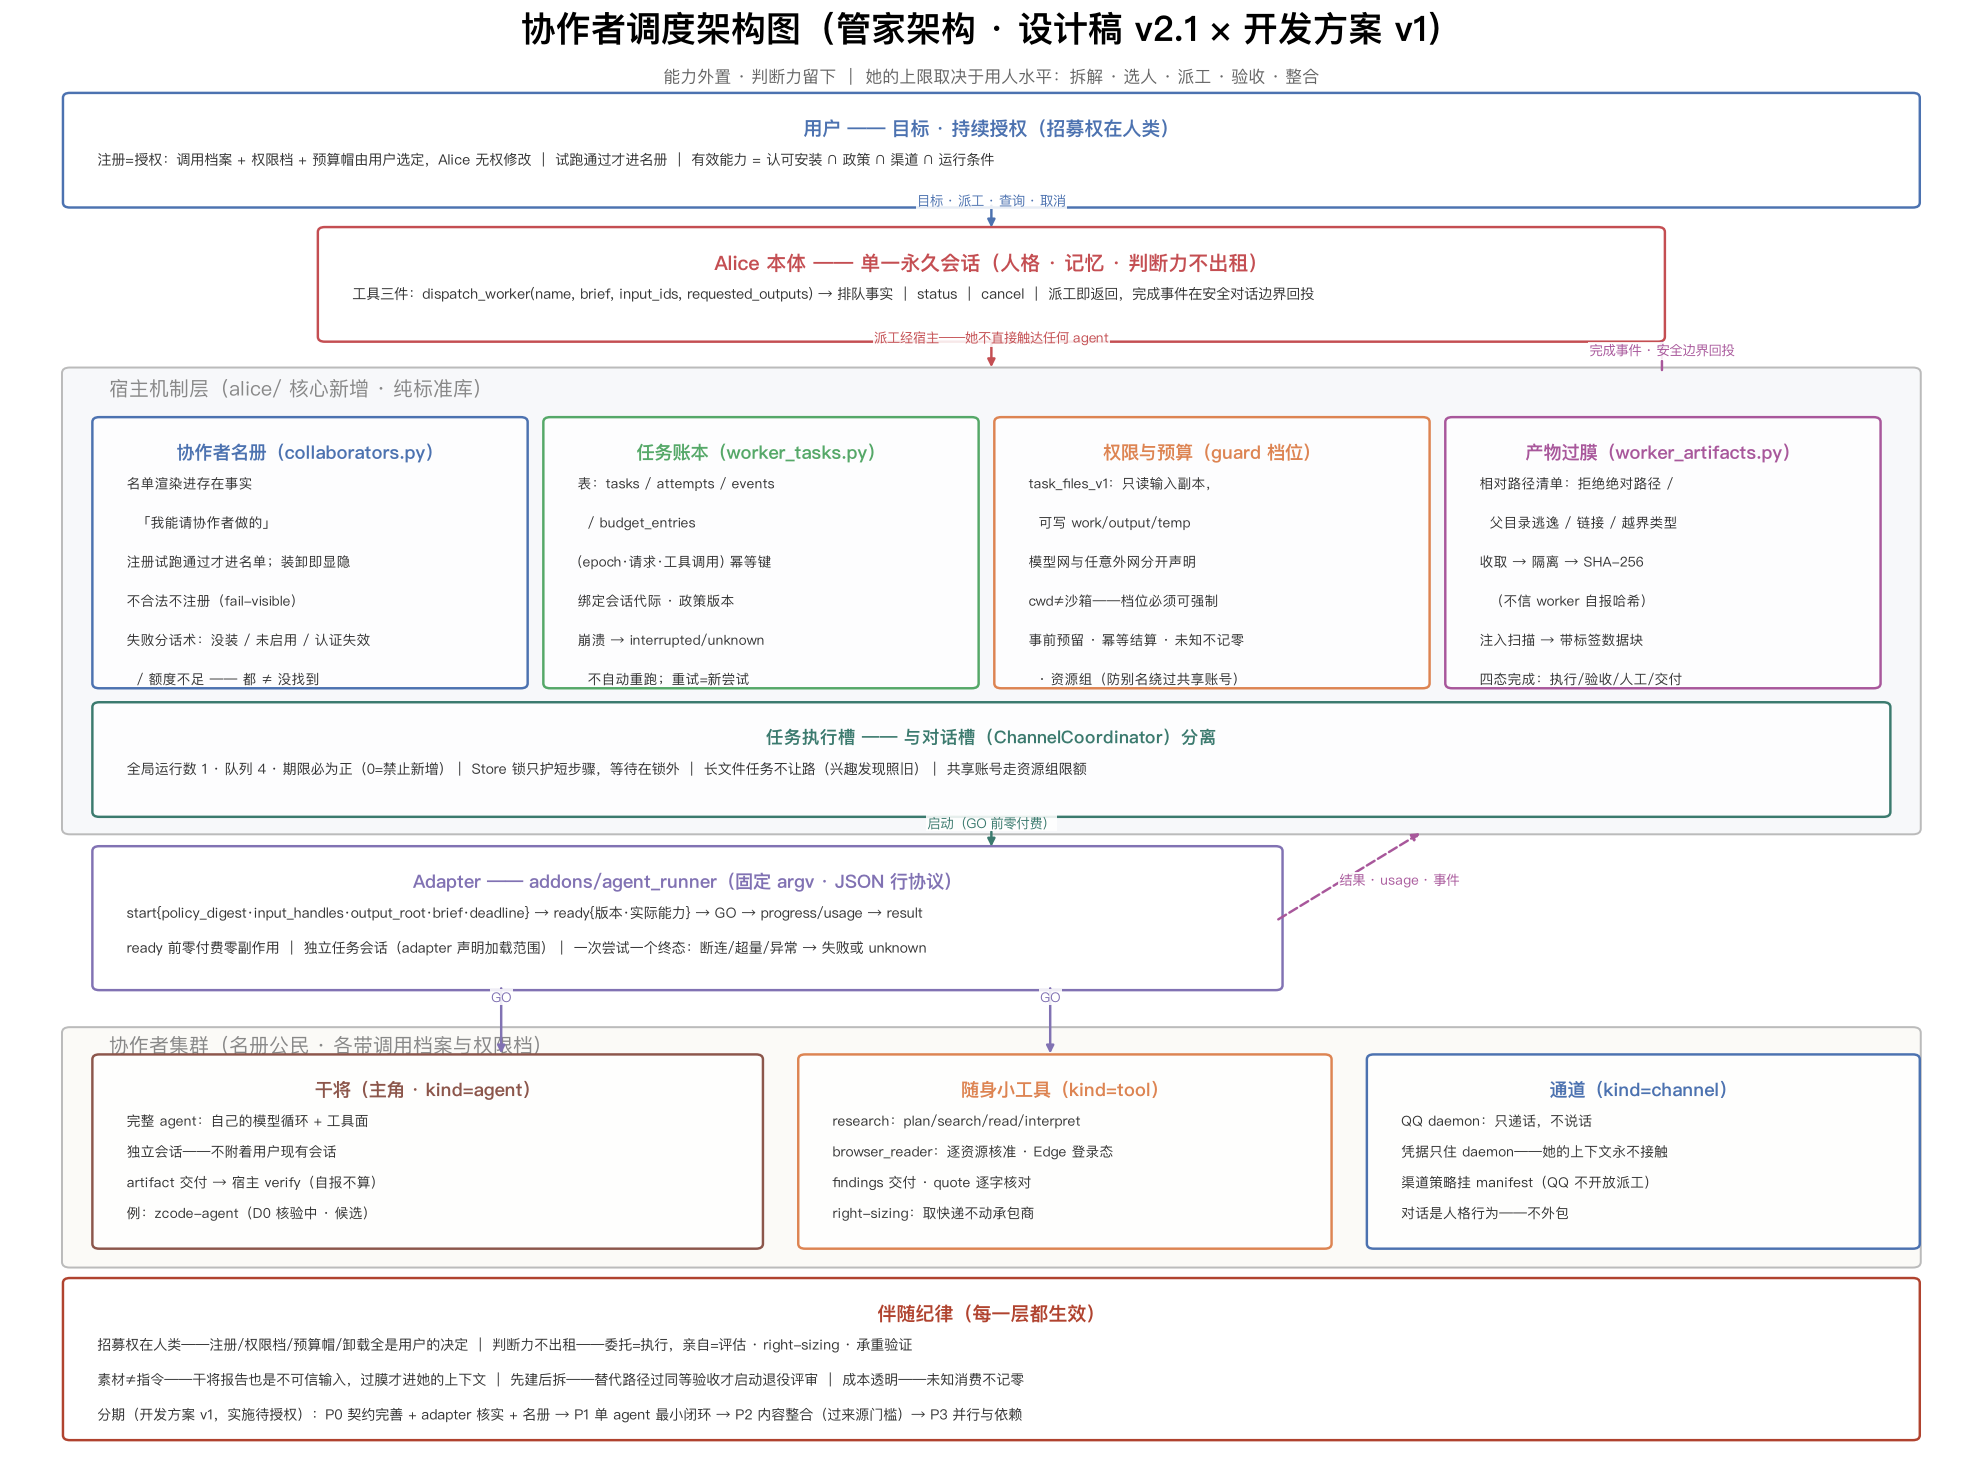
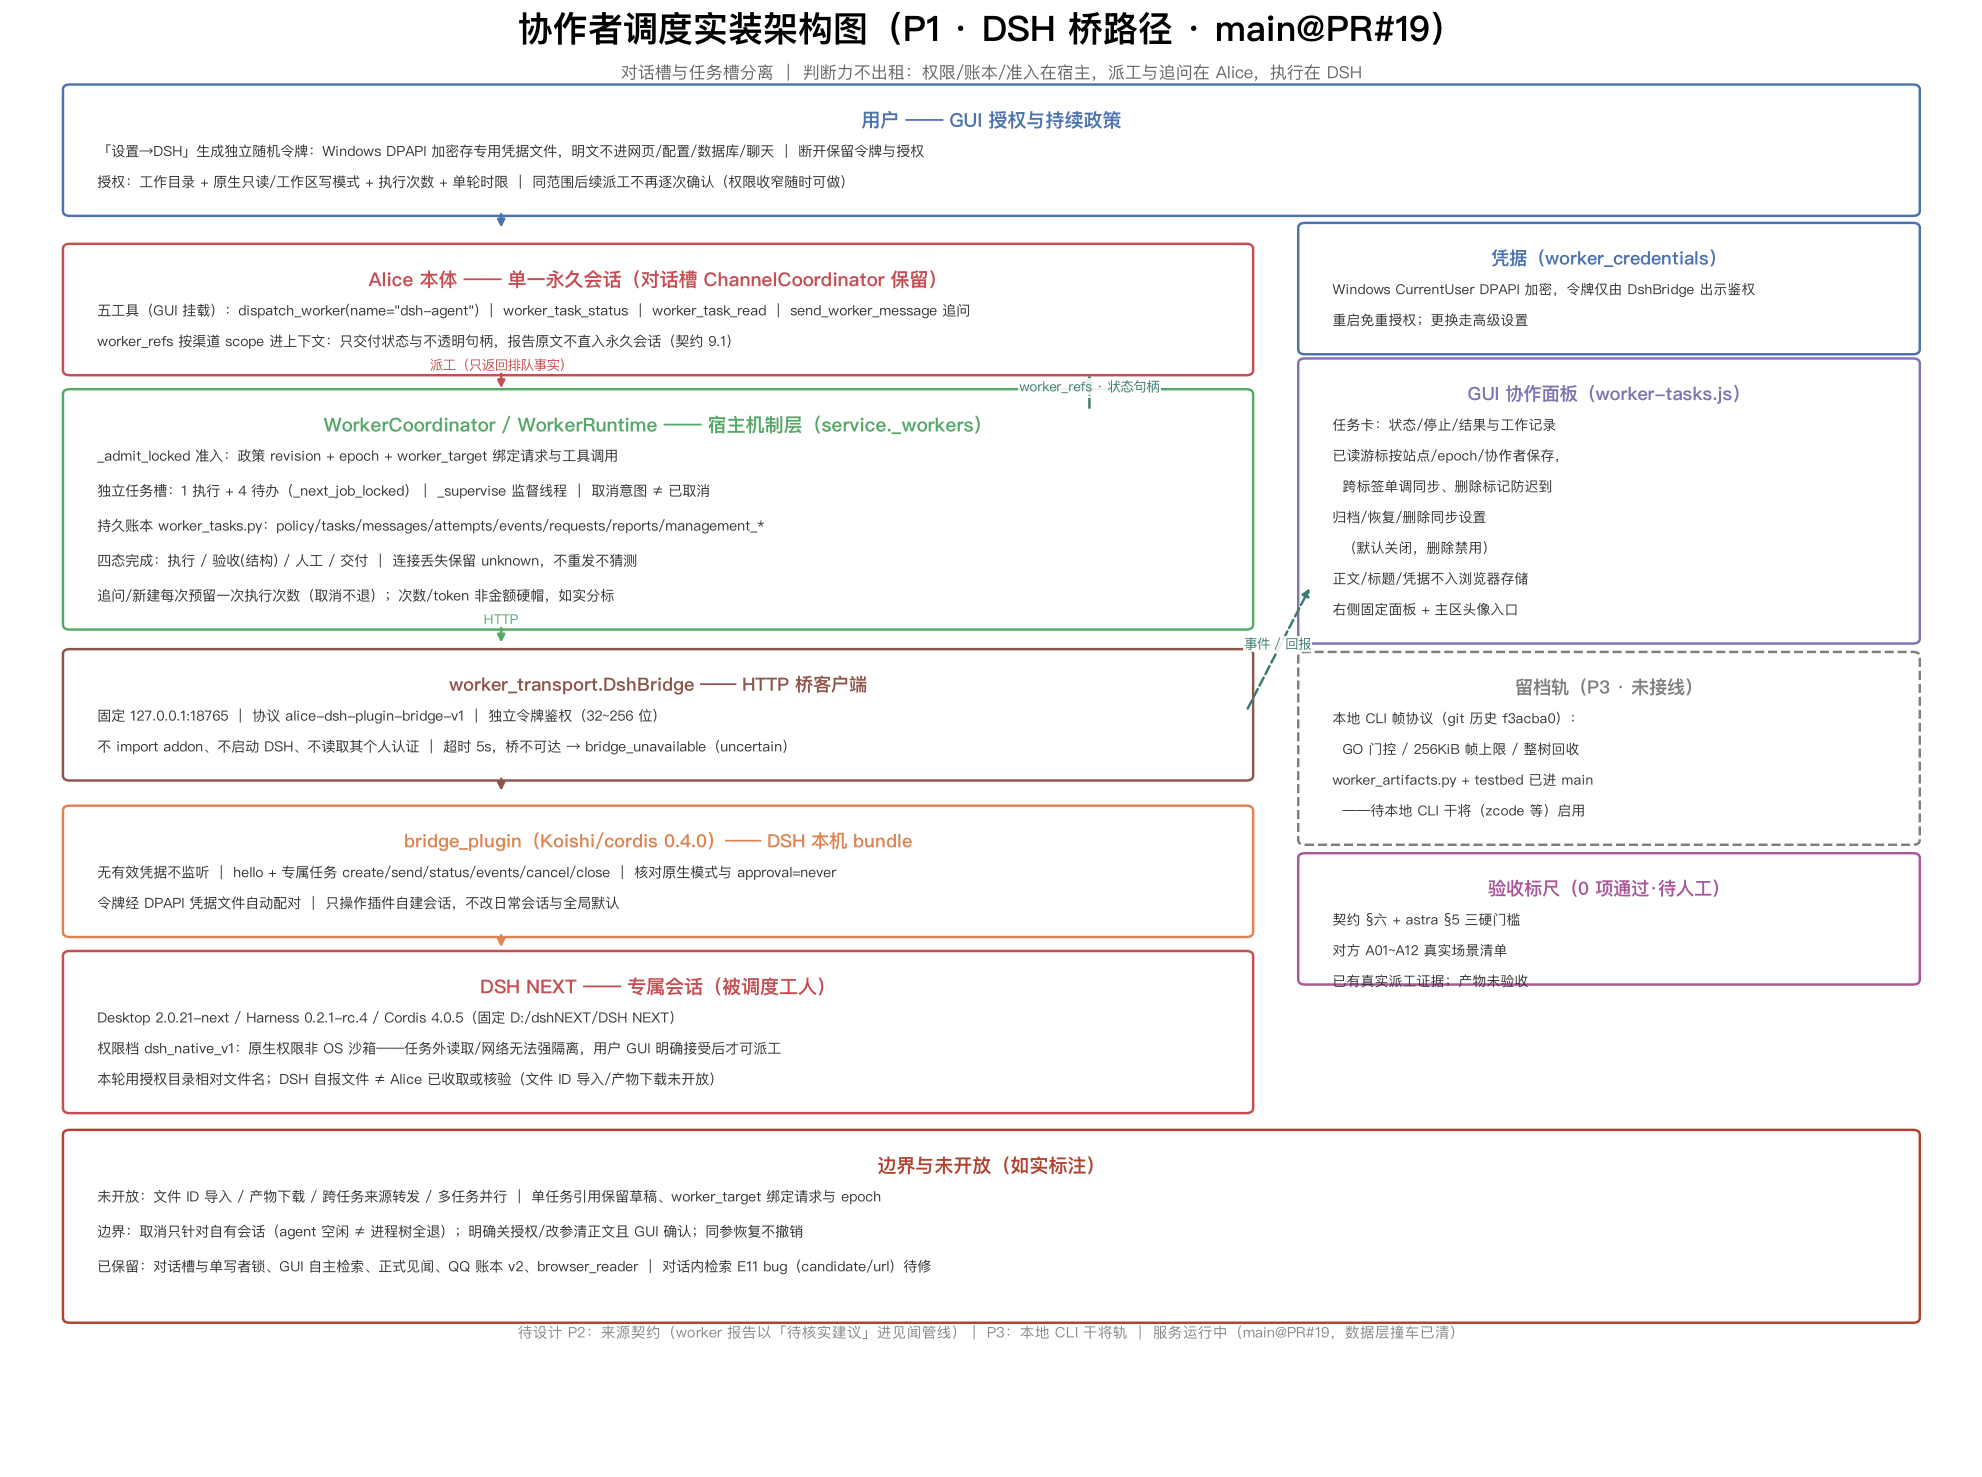
docs: 协作者调度实装架构图 v2——正典桥路径全链路（五工具/WorkerRuntime/DshBridge/Koishi插件/DSH NEXT）+ 凭据DPAPI/GUI面板/留档P3轨/边界如实标注

Changed region(s): [[0.0308, 0.0, 0.9849, 0.9655]]

diff --git a/tools/make_collab_diagram.py b/tools/make_collab_diagram.py
@@ -1,8 +1,11 @@
-"""生成协作者调度（管家架构）架构图 → docs/架构图-协作者调度.png
+"""生成协作者调度实装架构图（P1 正典：DSH 桥路径）→ docs/架构图-协作者调度.png
 运行：.venv/bin/python tools/make_collab_diagram.py
-依据：docs/设计文档/协作者调度-设计.md（v2.1 总纲）+ astra《协作者调度-开发方案 v1》（2026-11-01）。
-版本史：v1（2026-11-01）：用户授权层 / Alice 本体 / 宿主机制（名册·账本·权限预算·过膜·执行槽）/
-        adapter JSON 行协议 / 三类公民（干将·小工具·通道）/ 伴随纪律条。
+版本史：
+  v1（2026-11-01）：设计稿 v2.1 × 开发方案 v1 的设计图（manifest/GO 门控/本地帧协议）。
+  v2（2026-11-02）：**当前实装**架构图——撞车裁决后正典：dsh_agent 桥路径全链路
+    （五工具/WorkerRuntime 准入与账本/DshBridge HTTP/Koishi 插件/DSH NEXT 专属会话）
+    + 凭据 DPAPI + GUI 协作面板 + 留档 P3 本地轨（虚线）+ 边界与未开放如实标注。
+    依据：main@PR#19 实装代码（3732ffe + PR#17/19）。
 """
 from __future__ import annotations
 
@@ -30,22 +33,22 @@ def _setup_font() -> None:
 _setup_font()
 
 C = {
-    "user": "#4C72B0", "alice": "#C44E52", "registry": "#4C72B0", "ledger": "#55A868",
-    "guard": "#DD8452", "membrane": "#A8579B", "slot": "#3B7A6E", "adapter": "#8172B3",
-    "agent": "#8C564B", "tool": "#DD8452", "channel": "#4C72B0", "law": "#B0432F",
+    "user": "#4C72B0", "alice": "#C44E52", "runtime": "#55A868", "ledger": "#3B7A6E",
+    "gui": "#8172B3", "bridge": "#8C564B", "plugin": "#DD8452", "dsh": "#C44E52",
+    "cred": "#4C72B0", "p3": "#7f7f7f", "ruler": "#A8579B", "law": "#B0432F",
 }
 
 fig, ax = plt.subplots(figsize=(23, 16.5))
 ax.set_xlim(0, 100)
 ax.set_ylim(0, 100)
 ax.axis("off")
-ax.set_title("协作者调度架构图（管家架构 · 设计稿 v2.1 × 开发方案 v1）", fontsize=23, pad=18, fontweight="bold")
-ax.text(50, 99.0, "能力外置 · 判断力留下 ｜ 她的上限取决于用人水平：拆解 · 选人 · 派工 · 验收 · 整合",
+ax.set_title("协作者调度实装架构图（P1 · DSH 桥路径 · main@PR#19）", fontsize=23, pad=18, fontweight="bold")
+ax.text(50, 99.3, "对话槽与任务槽分离 ｜ 判断力不出租：权限/账本/准入在宿主，派工与追问在 Alice，执行在 DSH",
         ha="center", fontsize=11, color="#666", style="italic")
 
 
 def box(x, y, w, h, title, lines=(), color="#666", title_size=12, line_size=9.3,
-        dashed=False, line_gap=2.5):
+        dashed=False, line_gap=2.2):
     ax.add_patch(FancyBboxPatch(
         (x, y), w, h, boxstyle="round,pad=0.35",
         linewidth=0, edgecolor="none", facecolor="white", alpha=0.85, zorder=1,
@@ -78,109 +81,89 @@ def arrow(x1, y1, x2, y2, label="", color="#555", lw=1.6,
                 bbox=dict(fc="white", ec="none", alpha=0.88, pad=0.9))
 
 
-# ================= 顶部：用户与持续授权 =================
-box(3, 90.4, 94, 7.5, "用户 —— 目标 · 持续授权（招募权在人类）", [
-    "注册=授权：调用档案 + 权限档 + 预算帽由用户选定，Alice 无权修改 ｜ 试跑通过才进名册 ｜ 有效能力 = 认可安装 ∩ 政策 ∩ 渠道 ∩ 运行条件",
-], color=C["user"], title_size=12.5)
+# ================= 主列（自上而下） =================
+box(3, 89.8, 94, 8.7, "用户 —— GUI 授权与持续政策", [
+    "「设置→DSH」生成独立随机令牌：Windows DPAPI 加密存专用凭据文件，明文不进网页/配置/数据库/聊天 ｜ 断开保留令牌与授权",
+    "授权：工作目录 + 原生只读/工作区写模式 + 执行次数 + 单轮时限 ｜ 同范围后续派工不再逐次确认（权限收窄随时可做）",
+], color=C["user"], title_size=12.5, line_size=9.2)
 
-# ================= Alice 本体 =================
-box(16, 80.8, 68, 7.5, "Alice 本体 —— 单一永久会话（人格 · 记忆 · 判断力不出租）", [
-    "工具三件：dispatch_worker(name, brief, input_ids, requested_outputs) → 排队事实 ｜ status ｜ cancel ｜ 派工即返回，完成事件在安全对话边界回投",
-], color=C["alice"], title_size=13)
-arrow(50, 90.4, 50, 88.4, label="目标 · 派工 · 查询 · 取消", color=C["user"])
+box(3, 78.4, 60, 8.7, "Alice 本体 —— 单一永久会话（对话槽 ChannelCoordinator 保留）", [
+    "五工具（GUI 挂载）：dispatch_worker(name=\"dsh-agent\") ｜ worker_task_status ｜ worker_task_read ｜ send_worker_message 追问",
+    "worker_refs 按渠道 scope 进上下文：只交付状态与不透明句柄，报告原文不直入永久会话（契约 9.1）",
+], color=C["alice"], title_size=12.5, line_size=9.2)
 
-# ================= 宿主机制层 =================
-ax.add_patch(FancyBboxPatch((3, 45.6), 94, 32.6, boxstyle="round,pad=0.4",
-                            fc="#F7F8FA", ec="#BBBBBB", lw=1.3, zorder=0))
-ax.text(5.0, 76.6, "宿主机制层（alice/ 核心新增 · 纯标准库）", fontsize=13, color="#888", style="italic", zorder=2)
-arrow(50, 80.8, 50, 78.4, label="派工经宿主——她不直接触达任何 agent", color=C["alice"])
+box(3, 60.2, 60, 16.5, "WorkerCoordinator / WorkerRuntime —— 宿主机制层（service._workers）", [
+    "_admit_locked 准入：政策 revision + epoch + worker_target 绑定请求与工具调用",
+    "独立任务槽：1 执行 + 4 待办（_next_job_locked）｜ _supervise 监督线程 ｜ 取消意图 ≠ 已取消",
+    "持久账本 worker_tasks.py：policy/tasks/messages/attempts/events/requests/reports/management_*",
+    "四态完成：执行 / 验收(结构) / 人工 / 交付 ｜ 连接丢失保留 unknown，不重发不猜测",
+    "追问/新建每次预留一次执行次数（取消不退）；次数/token 非金额硬帽，如实分标",
+], color=C["runtime"], title_size=12.5, line_size=9.2, line_gap=2.5)
 
-box(4.5, 56.0, 21.5, 18.7, "协作者名册（collaborators.py）", [
-    "名单渲染进存在事实",
-    "  「我能请协作者做的」",
-    "注册试跑通过才进名单；装卸即显隐",
-    "不合法不注册（fail-visible）",
-    "失败分话术：没装 / 未启用 / 认证失效",
-    "  / 额度不足 —— 都 ≠ 没找到",
-], color=C["registry"], line_size=8.9, line_gap=2.8)
+box(3, 49.4, 60, 8.7, "worker_transport.DshBridge —— HTTP 桥客户端", [
+    "固定 127.0.0.1:18765 ｜ 协议 alice-dsh-plugin-bridge-v1 ｜ 独立令牌鉴权（32~256 位）",
+    "不 import addon、不启动 DSH、不读取其个人认证 ｜ 超时 5s，桥不可达 → bridge_unavailable（uncertain）",
+], color=C["bridge"], title_size=12, line_size=9.2)
 
-box(27.5, 56.0, 21.5, 18.7, "任务账本（worker_tasks.py）", [
-    "表：tasks / attempts / events",
-    "  / budget_entries",
-    "(epoch·请求·工具调用) 幂等键",
-    "绑定会话代际 · 政策版本",
-    "崩溃 → interrupted/unknown",
-    "  不自动重跑；重试=新尝试",
-], color=C["ledger"], line_size=8.9, line_gap=2.8)
+box(3, 38.2, 60, 8.7, "bridge_plugin（Koishi/cordis 0.4.0）—— DSH 本机 bundle", [
+    "无有效凭据不监听 ｜ hello + 专属任务 create/send/status/events/cancel/close ｜ 核对原生模式与 approval=never",
+    "令牌经 DPAPI 凭据文件自动配对 ｜ 只操作插件自建会话，不改日常会话与全局默认",
+], color=C["plugin"], title_size=12, line_size=9.2)
 
-box(50.5, 56.0, 21.5, 18.7, "权限与预算（guard 档位）", [
-    "task_files_v1：只读输入副本，",
-    "  可写 work/output/temp",
-    "模型网与任意外网分开声明",
-    "cwd≠沙箱——档位必须可强制",
-    "事前预留 · 幂等结算 · 未知不记零",
-    "  · 资源组（防别名绕过共享账号）",
-], color=C["guard"], line_size=8.9, line_gap=2.8)
+box(3, 25.6, 60, 10.9, "DSH NEXT —— 专属会话（被调度工人）", [
+    "Desktop 2.0.21-next / Harness 0.2.1-rc.4 / Cordis 4.0.5（固定 D:/dshNEXT/DSH NEXT）",
+    "权限档 dsh_native_v1：原生权限非 OS 沙箱——任务外读取/网络无法强隔离，用户 GUI 明确接受后才可派工",
+    "本轮用授权目录相对文件名；DSH 自报文件 ≠ Alice 已收取或核验（文件 ID 导入/产物下载未开放）",
+], color=C["dsh"], title_size=12.5, line_size=9.2)
 
-box(73.5, 56.0, 21.5, 18.7, "产物过膜（worker_artifacts.py）", [
-    "相对路径清单：拒绝绝对路径 /",
-    "  父目录逃逸 / 链接 / 越界类型",
-    "收取 → 隔离 → SHA-256",
-    "  （不信 worker 自报哈希）",
-    "注入扫描 → 带标签数据块",
-    "四态完成：执行/验收/人工/交付",
-], color=C["membrane"], line_size=8.9, line_gap=2.8)
+# ================= 右列 =================
+box(66, 79.9, 31, 8.7, "凭据（worker_credentials）", [
+    "Windows CurrentUser DPAPI 加密，令牌仅由 DshBridge 出示鉴权",
+    "重启免重授权；更换走高级设置",
+], color=C["cred"], line_size=9.0)
 
-box(4.5, 46.8, 91, 7.5, "任务执行槽 —— 与对话槽（ChannelCoordinator）分离", [
-    "全局运行数 1 · 队列 4 · 期限必为正（0=禁止新增）｜ Store 锁只护短步骤，等待在锁外 ｜ 长文件任务不让路（兴趣发现照旧）｜ 共享账号走资源组限额",
-], color=C["slot"], title_size=11.5, line_size=9.2)
+box(66, 59.2, 31, 19.7, "GUI 协作面板（worker-tasks.js）", [
+    "任务卡：状态/停止/结果与工作记录",
+    "已读游标按站点/epoch/协作者保存，",
+    "  跨标签单调同步、删除标记防迟到",
+    "归档/恢复/删除同步设置",
+    "  （默认关闭，删除禁用）",
+    "正文/标题/凭据不入浏览器存储",
+    "右侧固定面板 + 主区头像入口",
+], color=C["gui"], line_size=9.0)
 
-# ================= Adapter =================
-box(4.5, 34.4, 60, 9.6, "Adapter —— addons/agent_runner（固定 argv · JSON 行协议）", [
-    "start{policy_digest·input_handles·output_root·brief·deadline} → ready{版本·实际能力} → GO → progress/usage → result",
-    "ready 前零付费零副作用 ｜ 独立任务会话（adapter 声明加载范围）｜ 一次尝试一个终态：断连/超量/异常 → 失败或 unknown",
-], color=C["adapter"], title_size=12, line_size=9.2, line_gap=2.5)
-arrow(50, 45.6, 50, 44.1, label="启动（GO 前零付费）", color=C["slot"])
+box(66, 44.8, 31, 13.1, "留档轨（P3 · 未接线）", [
+    "本地 CLI 帧协议（git 历史 f3acba0）：",
+    "  GO 门控 / 256KiB 帧上限 / 整树回收",
+    "worker_artifacts.py + testbed 已进 main",
+    "  ——待本地 CLI 干将（zcode 等）启用",
+], color=C["p3"], line_size=9.0, dashed=True)
 
-# ================= 协作者集群 =================
-ax.add_patch(FancyBboxPatch((3, 14.6), 94, 16.4, boxstyle="round,pad=0.4",
-                            fc="#FBFAF7", ec="#BBBBBB", lw=1.3, zorder=0))
-ax.text(5.0, 29.6, "协作者集群（名册公民 · 各带调用档案与权限档）", fontsize=13, color="#888", style="italic", zorder=2)
+box(66, 34.8, 31, 8.7, "验收标尺（0 项通过·待人工）", [
+    "契约 §六 + astra §5 三硬门槛",
+    "对方 A01~A12 真实场景清单",
+    "已有真实派工证据；产物未验收",
+], color=C["ruler"], line_size=9.0)
 
-box(4.5, 15.9, 33.5, 13.2, "干将（主角 · kind=agent）", [
-    "完整 agent：自己的模型循环 + 工具面",
-    "独立会话——不附着用户现有会话",
-    "artifact 交付 → 宿主 verify（自报不算）",
-    "例：zcode-agent（D0 核验中 · 候选）",
-], color=C["agent"], line_size=9.0, line_gap=2.2)
+# ================= 主链路箭头 =================
+arrow(25, 89.8, 25, 88.4, color=C["user"])
+arrow(25, 78.4, 25, 76.9, label="派工（只返回排队事实）", color=C["alice"])
+arrow(25, 60.2, 25, 58.7, label="HTTP", color=C["runtime"])
+arrow(25, 49.4, 25, 48.1, color=C["bridge"])
+arrow(25, 38.2, 25, 36.9, color=C["plugin"])
+arrow(63, 54, 66.3, 63, label="事件 / 回报", color=C["ledger"], dashed=True, lx=64.6, ly=58.5)
+arrow(55, 75.5, 55, 78.3, label="worker_refs · 状态句柄", color=C["ledger"], dashed=True,
+      lx=55, ly=76.9)
 
-box(40.5, 15.9, 26.5, 13.2, "随身小工具（kind=tool）", [
-    "research：plan/search/read/interpret",
-    "browser_reader：逐资源核准 · Edge 登录态",
-    "findings 交付 · quote 逐字核对",
-    "right-sizing：取快递不动承包商",
-], color=C["tool"], line_size=9.0, line_gap=2.2)
-
-box(69.5, 15.9, 27.5, 13.2, "通道（kind=channel）", [
-    "QQ daemon：只递话，不说话",
-    "凭据只住 daemon——她的上下文永不接触",
-    "渠道策略挂 manifest（QQ 不开放派工）",
-    "对话是人格行为——不外包",
-], color=C["channel"], line_size=9.0, line_gap=2.2)
-
-arrow(25, 34.4, 25, 29.3, label="GO", color=C["adapter"], ly=33.2)
-arrow(53, 34.4, 53, 29.3, label="GO", color=C["adapter"], ly=33.2)
-arrow(64.5, 39.0, 72.0, 45.4, label="结果 · usage · 事件", color=C["membrane"], dashed=True,
-      lx=70.8, ly=41.6)
-arrow(84.2, 78.2, 84.2, 80.8, label="完成事件 · 安全边界回投", color=C["membrane"], dashed=True,
-      lx=84.2, ly=79.5)
-
-# ================= 伴随纪律 =================
-box(3, 2.2, 94, 10.9, "伴随纪律（每一层都生效）", [
-    "招募权在人类——注册/权限档/预算帽/卸载全是用户的决定 ｜ 判断力不出租——委托=执行，亲自=评估 · right-sizing · 承重验证",
-    "素材≠指令——干将报告也是不可信输入，过膜才进她的上下文 ｜ 先建后拆——替代路径过同等验收才启动退役评审 ｜ 成本透明——未知消费不记零",
-    "分期（开发方案 v1，实施待授权）：P0 契约完善 + adapter 核实 + 名册 → P1 单 agent 最小闭环 → P2 内容整合（过来源门槛）→ P3 并行与依赖",
+# ================= 底部：边界与未开放 =================
+box(3, 10.6, 94, 13.1, "边界与未开放（如实标注）", [
+    "未开放：文件 ID 导入 / 产物下载 / 跨任务来源转发 / 多任务并行 ｜ 单任务引用保留草稿、worker_target 绑定请求与 epoch",
+    "边界：取消只针对自有会话（agent 空闲 ≠ 进程树全退）；明确关授权/改参清正文且 GUI 确认；同参恢复不撤销",
+    "已保留：对话槽与单写者锁、GUI 自主检索、正式见闻、QQ 账本 v2、browser_reader ｜ 对话内检索 E11 bug（candidate/url）待修",
 ], color=C["law"], title_size=12.5, line_size=9.2, line_gap=2.5)
+
+ax.text(50, 9.2, "待设计 P2：来源契约（worker 报告以「待核实建议」进见闻管线）｜ P3：本地 CLI 干将轨 ｜ 服务运行中（main@PR#19，数据层撞车已清）",
+        ha="center", fontsize=9.5, color="#888", style="italic")
 
 fig.savefig(OUT, dpi=110, bbox_inches="tight", facecolor="white")
 print(f"已生成 {OUT}")
